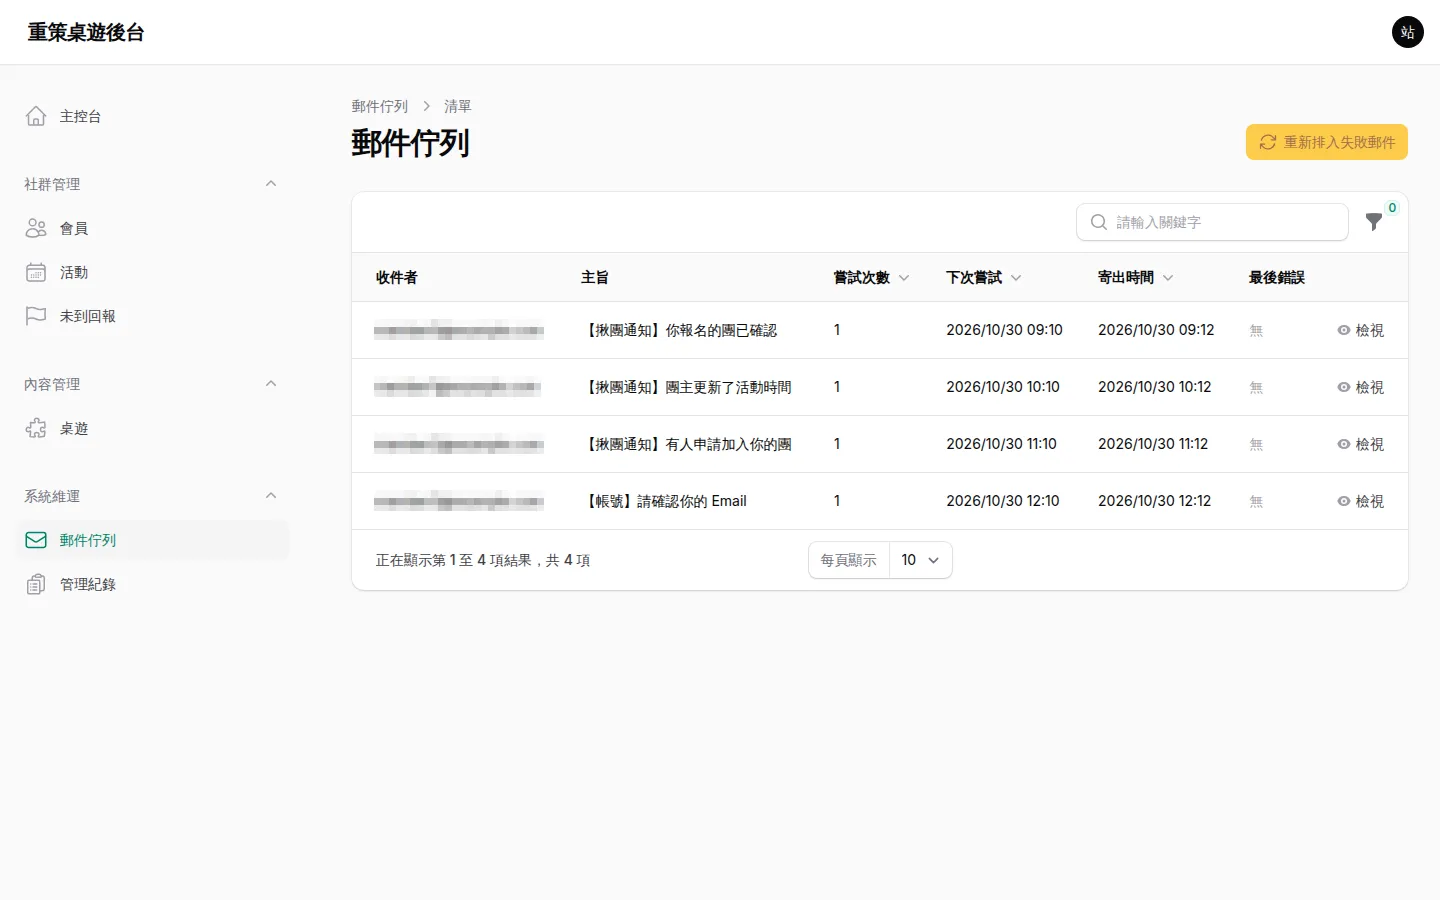
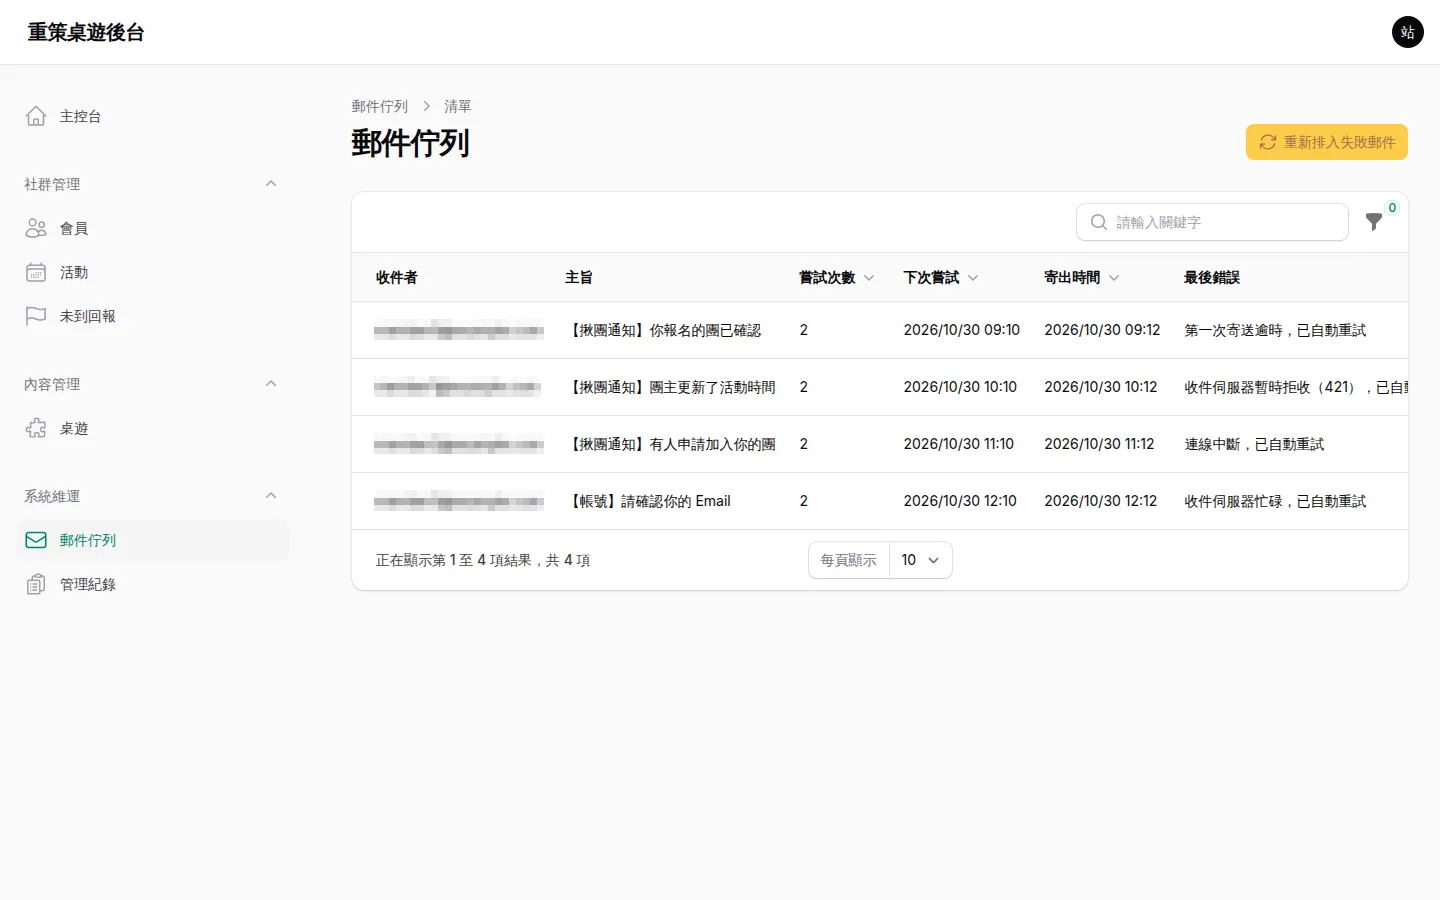
首頁首屏改為文字左、案例輪播右，拿掉類別卡並加輪播引導
- 新增 HomeHero：左欄標題、介紹句、聊聊需求與說明，右欄放大的案例截圖自動輪播；手機依序為文字、輪播、按鈕
- 主站首頁拿掉六張類別卡（服務站首頁仍保留）
- 輪播加進度條、可點的功能標籤（連案例頁功能篩選）、「點看案例」提示、首次進站滑動提示與 GA 事件
- 案例頁支援 ?feature= 功能篩選
- LIFF 後台補拍 LINE Bot 設定、同意書、推播頁與前台總結區，推播與郵件佇列的空值改為合理資料後重拍

diff --git a/src/data/cases.ts b/src/data/cases.ts
@@ -291,4 +291,21 @@ export const DEV_CASES: DevCase[] = [
 export const caseFeatureTags = (item: DevCase): FeatureTagKey[] =>
   [...new Set(item.images.map((image) => image.featureTag))].slice(0, Math.max(2, Math.min(4, 5 - item.categories.length)));
 
+/** 首頁首屏自動輪播：所有案例的截圖（同一張圖只出現一次），標系統名＋功能標籤，點擊連到該案例類別篩選後的案例頁 */
+export const heroCarouselSlides = () => {
+  const seen = new Set<string>();
+  return DEV_CASES.flatMap((item) =>
+    item.images.map((image) => ({
+      src: image.src,
+      alt: image.alt,
+      label: `${item.title}・${FEATURE_TAGS[image.featureTag]}`,
+      href: `/cases/?tag=${encodeURIComponent(devCategoryTitle(item.categories[0]))}`,
+      group: item.key,
+      featureKey: image.featureTag,
+      featureLabel: FEATURE_TAGS[image.featureTag],
+      caseTitle: item.title,
+    })),
+  ).filter((slide) => (seen.has(slide.src) ? false : (seen.add(slide.src), true)));
+};
+
 export const FEATURED_CASE = DEV_CASES.find((item) => item.featured) ?? DEV_CASES[0];

diff --git a/src/consts.ts b/src/consts.ts
@@ -7,6 +7,9 @@ export const CASES_BEYOND_NOTE = {
   text: '案例以外的系統也可以做，聊完需求一樣可以先提供試用 Demo。',
 } as const;
 
+/** 首屏「聊聊需求」按鈕下方說明（與首屏介紹句不重複） */
+export const HERO_CTA_NOTE = '說說你想做的系統，我們先做 Demo 給你試用。';
+
 /** 首屏介紹句（主站首頁與服務站首頁共用的類別卡區）：strong 段加粗；分期文字另引用 PAYMENT_TERMS */
 export const HERO_INTRO = {
   lead: '客製化系統開發，需求可以隨調隨改。',

diff --git a/AGENTS.md b/AGENTS.md
@@ -202,7 +202,7 @@ Access 513k tokens of past work via get_observations([IDs]) or mem-search skill.
 - 案例、類別、網址、LINE、GA ID 一律從 `src/data/cases.ts` 與 `src/consts.ts` 引用，不寫死（案例與類別：`DEV_CASES`、`DEV_CATEGORIES`；LINE 預填：`lineCategoryUrl()`；Demo：`DEVELOPMENT_SERVICE.demoUrl`；題庫文章：`DEVELOPMENT_SERVICE.caseArticle`；GA：`GA_MEASUREMENT_ID`；Demo 網域清單（GA demo_click）：`DEMO_HOSTNAMES`；LINE 綠：CSS 變數 `--color-line`；網域：`SITE.url`／`SERVICE_SITE.url`）。
 - 卡片群組全頁一致尺寸（不只同列）：`/cases/` 案例卡（不論篩選狀態、同列或跨列）、首頁與服務站的類別卡、小卡、流程卡，每張寬高相同（`grid-auto-rows: 1fr`，必要時標題／說明用固定行數與 line-clamp），卡內 icon、標題、說明、標籤、連結距卡片頂部的 offset 每張相同；驗證時在 1440、768、390、320（與每個篩選狀態）量測每張寬高與卡內元素 offsetTop，必須完全一致。
 - 案例卡多圖輪播（2026-11-01）：`src/data/cases.ts` 每個案例用 `images` 陣列，每張一個通用功能標籤 `featureTag`（引用 `FEATURE_TAGS`），卡片下方功能標籤由各圖 featureTag 去重取前 4 個；有後台的系統，側欄主要功能頁各拍一張（1440×900 含側欄），前台主要功能頁各拍一張（手機畫面置中合成在 16:10 淺底圖）；壞掉或空白的頁面不拍。輪播用共用元件 `src/components/CaseCarousel.astro`：16:10、左上角功能標籤、左右下角箭頭位置固定、圓點置中、觸控滑動與鍵盤左右鍵、無 JS 時可橫向捲動；案例卡不自動輪播。點圖開共用放大預覽，預覽內可左右切換同案例所有圖並顯示功能標籤。圖檔 webp、每張 200KB 內、非首張 lazy-load。
-- 首頁首屏自動輪播（只開主站首頁，服務站不放）：`DevCategoryPicker` 的 `showCarousel`，從所有案例 images 隨機輪播（同案例不連續），標系統名＋功能標籤，點擊連到該案例類別篩選後的 `/cases/`；每張 4.5 秒淡入、滑鼠移入或鍵盤聚焦暫停、有暫停／播放鈕、prefers-reduced-motion 不自動播放、分頁不可見暫停、只預載下一張；桌機在標題右側（寬 400px），平板與手機在標題與類別卡之間（最寬 460px）。
+- 首頁首屏自動輪播（只開主站首頁，服務站不放）：`HomeHero`，從所有案例 images 隨機輪播（同案例不連續），標系統名＋功能標籤，點擊連到該案例類別篩選後的 `/cases/`；每張 4.5 秒淡入、滑鼠移入或鍵盤聚焦暫停、有暫停／播放鈕、prefers-reduced-motion 不自動播放、分頁不可見暫停、只預載下一張。
 - 案例截圖一律可點擊放大預覽，使用共用元件 `src/components/ImageLightbox.astro`（無 JS 時連到原圖）；網頁類別（本站官網）案例排在最後。
 - 區塊名稱一律引用 `src/consts.ts` 的 `SECTION_NAMES`（`cases: '案例'`、`openSource: '開源'`），導覽、頁尾、頁面 title、麵包屑、H1、描述與 Markdown／llms 產生內容都不寫死；改名只改這一處。CMS 文章內文不受此規則。
 
@@ -213,7 +213,9 @@ Access 513k tokens of past work via get_observations([IDs]) or mem-search skill.
 - 導覽列：主站搜尋框固定在頁首導覽列（`SiteHeader.astro` 的 `.nav-search-form`，`showSearch`），不放在首屏 Hero；服務站不顯示搜尋框。手機版導覽放進選單展開內，且不得擠壓導覽項目。
 - 服務下拉在手機為單欄文字清單（無卡片框），桌機為三欄等寬等高卡片。
 - 兩欄卡片在手機單欄時，grid 必須明確寫 `grid-cols-[minmax(0,1fr)]`，否則欄寬被內容（影片、程式碼區、四欄數字）撐大，卡片右側會被 `overflow-hidden` 切掉；直式影片放進固定高度的欄位用 `object-contain`，不得用 `object-cover` 裁掉畫面兩側的文字。適用：`src/pages/resources.astro` 的 grill-me 卡。
-- 首屏類別卡（2026-10-31 起，`src/components/DevCategoryPicker.astro`，主站首頁與服務站首頁共用，取代 `NeedRouter.astro` 的「你目前最想解決什麼問題？」）：問句固定「你想做什麼系統？」；2026-10-31 起六類別依序為網頁、後台管理系統、APP、題庫管理系統、社群平台、AI 應用（與 `/cases/` 篩選同一套；LINE LIFF 歸在 APP，不另立類別）。格線桌機 3×2、767px 以下 2×3（`repeat(2, minmax(0, 1fr))`），不改單欄；卡片內容固定為 icon（28px 線條 SVG）＋類別名＋去處說明，去處說明 `margin-top: auto` 貼底，所有卡同高（桌機最小 148px、手機 132px）；360px 以下縮字級與內距，確保「題庫管理系統」不換行。
+- 首屏輪播引導（2026-11-01）：每張下方 3px 進度條隨 4.5 秒填滿、暫停時停住；左上角同一列放功能標籤按鈕（連 `/cases/?feature=<key>`，觸控區 44px）與「系統名｜點看案例 ›」提示（連該案例類別篩選），兩者點擊區不重疊；首次進站第一張載入後輕微左移再彈回一次（localStorage `aixwang_hero_nudge` 記錄，減少動態時不做）；「聊聊需求」下方說明引用 `HERO_CTA_NOTE`；GA 事件 `hero_carousel_click`（case_key、image_index）、`feature_tag_click`（feature_key、link_location），不收個資。案例頁支援 `?feature=<key>`，可與類別篩選並存。
+- 主站首頁首屏（2026-11-01 起）：`src/components/HomeHero.astro`，桌機左欄文字（標題、`HERO_INTRO` 介紹句兩處粗體）＋「聊聊需求」、右欄案例截圖自動輪播（最寬 580px、16:10，兩欄頂端對齊）；手機由上而下為文字 → 輪播 → 聊聊需求。主站首頁不放類別卡。
+- 服務站首頁首屏類別卡（2026-10-31 起，`src/components/DevCategoryPicker.astro`，目前只有服務站首頁使用，取代 `NeedRouter.astro` 的「你目前最想解決什麼問題？」）：問句固定「你想做什麼系統？」；2026-10-31 起六類別依序為網頁、後台管理系統、APP、題庫管理系統、社群平台、AI 應用（與 `/cases/` 篩選同一套；LINE LIFF 歸在 APP，不另立類別）。格線桌機 3×2、767px 以下 2×3（`repeat(2, minmax(0, 1fr))`），不改單欄；卡片內容固定為 icon（28px 線條 SVG）＋類別名＋去處說明，去處說明 `margin-top: auto` 貼底，所有卡同高（桌機最小 148px、手機 132px）；360px 以下縮字級與內距，確保「題庫管理系統」不換行。
 - 類別卡去處：有可試用 Demo 的類別直接連 Demo（題庫管理系統 → `https://demo-question.aixwang.dev`，2026-10-31 使用者指示「卡片先連結demo就好」；社群平台 → 真實網站 `https://heavyboardgames.aixwang.dev/`；AI 應用 → `/cases/?tag=AI 應用`）；首頁與服務站的題庫案例卡也只連 Demo，題庫文章連結放在 Demo 站內（登入頁與 Demo 橫幅），網站卡片只連 Demo；其他類別開官方 LINE 並預填訊息（`https://line.me/R/oaMessage/@438efvtl/?<編碼文字>`，lin.ee 追蹤短網址不支援預填）。其他類別要有真實案例頁或 Demo 才改連過去，不得編造案例、客戶、數字或截圖。
 - 案例區不放大截圖：每個真實案例一張卡片，縮圖固定 16:10（`aspect-ratio: 16 / 10; object-fit: cover; object-position: left top`），桌機縮圖與文字左右 5:7、767px 以下上下排；按鈕列 `margin-top: auto` 貼底。多個案例時改為等寬等高的卡片格線，縮圖比例不變。
 - 首頁與服務站首頁的「教學／演講／開源工具」為三張等寬等高小卡（桌機 3 欄、767px 以下單欄），每張：標題、一句說明、貼底的連結文字。手機單欄時三張也必須等高（`grid-auto-rows: 1fr`），連結文字貼底。
